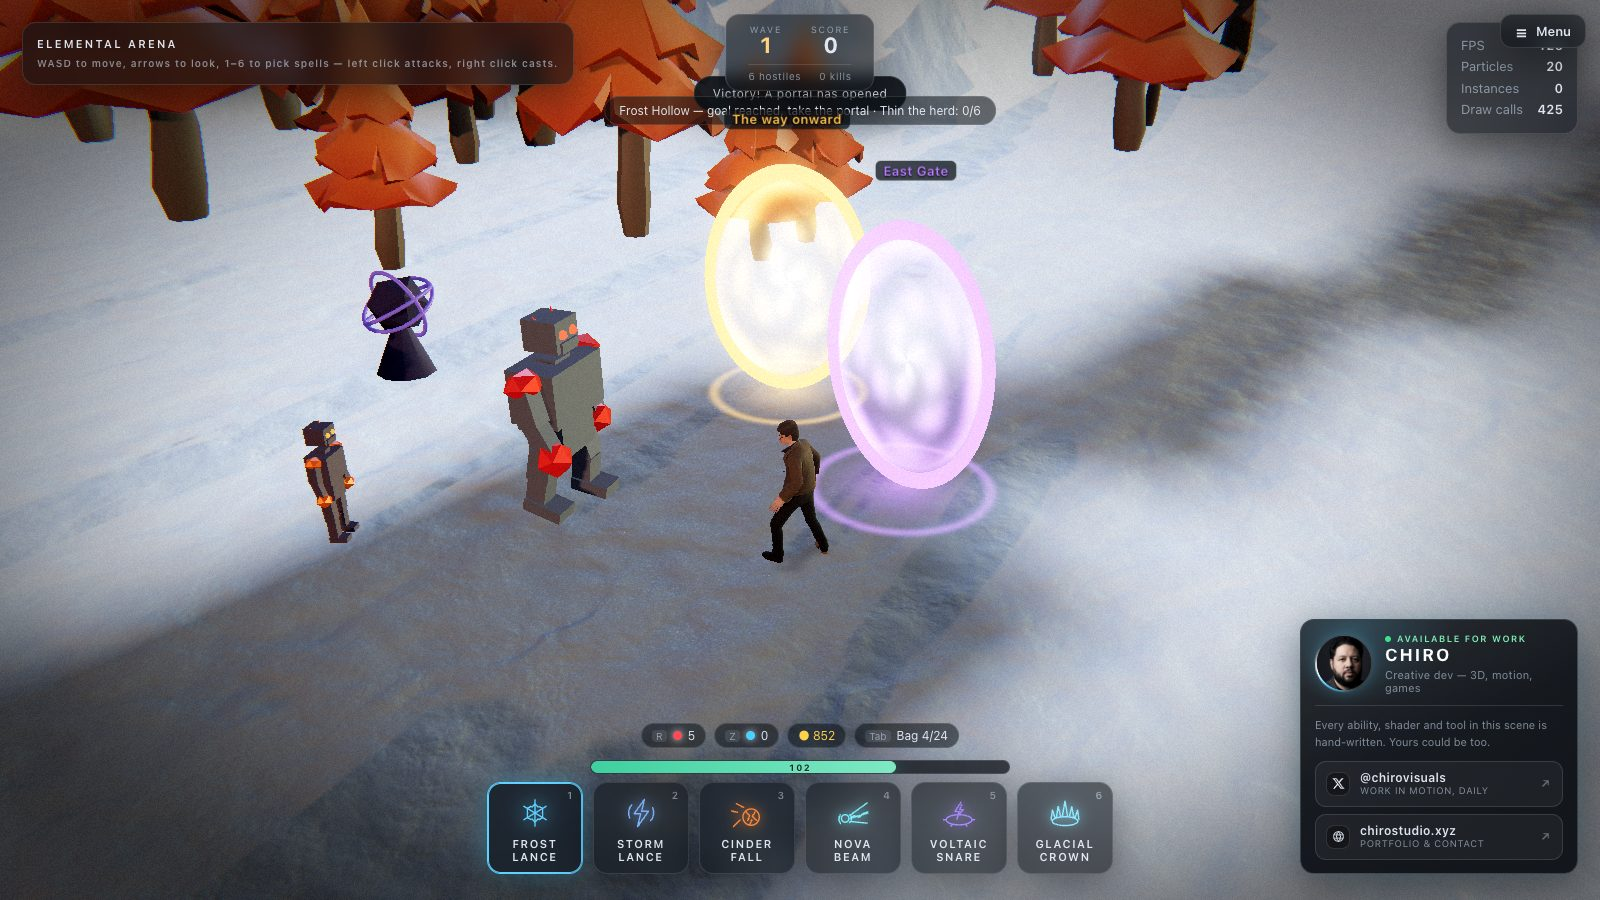
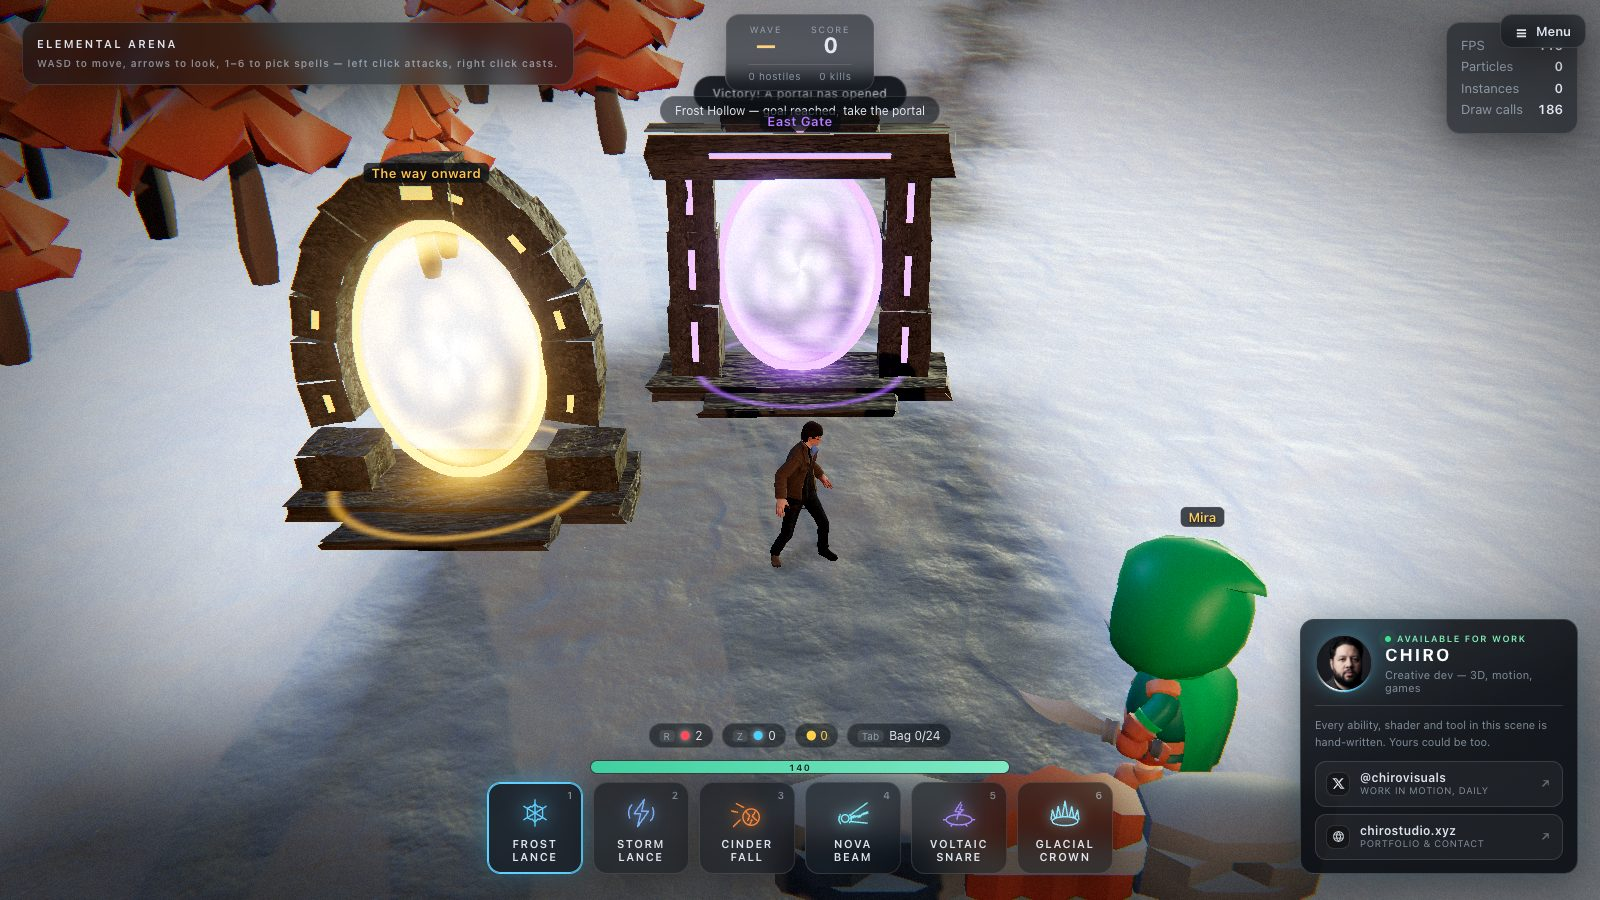
Give portals stone frames: an arch or a gateway
- Stone arch (rough-hewn blocks, keystone, foot stones, dais) and stone
  gateway (three-drum pillars, lintel, capstone) built once and shared,
  in the keep's masonry texture, with runes glowing in the portal colour;
  the old glowing ring stays as a third choice.
- Frame is a per-portal setting in the editor and the level file.
- The exit portal opens in view and away from gates and NPCs.

diff --git a/src/world/Portals.js b/src/world/Portals.js
@@ -1,5 +1,6 @@
 import {
   AdditiveBlending,
+  BoxGeometry,
   CircleGeometry,
   Color,
   DoubleSide,
@@ -7,9 +8,14 @@ import {
   Mesh,
   MeshBasicMaterial,
   PlaneGeometry,
+  MeshStandardMaterial,
+  RepeatWrapping,
+  SRGBColorSpace,
   ShaderMaterial,
+  TextureLoader,
   TorusGeometry
 } from 'three';
+import { mergeGeometries } from 'three/addons/utils/BufferGeometryUtils.js';
 
 /**
  * Portals: upright, swirling gateways the player walks into.
@@ -73,9 +79,163 @@ const POOL = /* glsl */ `
 
 const geometries = {
   vortex: new PlaneGeometry(2.2, 3.1),
-  rim: new TorusGeometry(1, 0.07, 10, 72),
+  rim: new TorusGeometry(1, 0.05, 8, 72),
+  gate: new PlaneGeometry(2.45, 3.25),
   pool: new CircleGeometry(1.9, 48)
 };
+
+/* ---------------------------------------------------------------------- */
+/* The stone frame: an arch of rough-hewn blocks on a dais                 */
+/* ---------------------------------------------------------------------- */
+
+function seeded(seed) {
+  let a = seed >>> 0;
+  return () => {
+    a = (a + 0x6d2b79f5) >>> 0;
+    let t = Math.imul(a ^ (a >>> 15), a | 1);
+    t ^= t + Math.imul(t ^ (t >>> 7), t | 61);
+    return ((t ^ (t >>> 14)) >>> 0) / 4294967296;
+  };
+}
+
+/** A box with its corners knocked about, so each block reads as cut stone. */
+function roughBlock(w, h, d, rng) {
+  const g = new BoxGeometry(w, h, d, 2, 2, 2);
+  const p = g.getAttribute('position');
+  for (let i = 0; i < p.count; i++) {
+    const k = 0.06;
+    p.setXYZ(i, p.getX(i) * (1 + (rng() - 0.5) * k * 2), p.getY(i) * (1 + (rng() - 0.5) * k * 2), p.getZ(i) * (1 + (rng() - 0.5) * k * 2));
+  }
+  return g.toNonIndexed();
+}
+
+export const PORTAL_FRAMES = { arch: 'Stone arch', gateway: 'Stone gateway', ring: 'Glowing ring' };
+
+const frames = new Map();
+/** Built once per style and shared by every portal: stone blocks + rune inlays. */
+function portalFrame(style) {
+  if (!frames.has(style)) frames.set(style, style === 'gateway' ? buildGateway() : style === 'ring' ? null : buildArch());
+  return frames.get(style);
+}
+
+/** A dais with a step in front — both frames stand on one. */
+function dais(rng, stones, width = 4.1) {
+  const slab = roughBlock(width, 0.22, 1.6, rng);
+  slab.translate(0, 0.11, 0);
+  const step = roughBlock(width * 0.63, 0.12, 0.7, rng);
+  step.translate(0, 0.06, 1.12);
+  stones.push(slab, step);
+}
+
+function finish(stones, runes) {
+  const built = { stone: mergeGeometries(stones), runes: mergeGeometries(runes) };
+  built.stone.computeVertexNormals();
+  return built;
+}
+
+/** Two standing-stone pillars and a heavy lintel: a gate rather than a ring. */
+function buildGateway() {
+  const rng = seeded(9127);
+  const stones = [];
+  const runes = [];
+  for (const side of [-1, 1]) {
+    // Three stacked drums per pillar, each a little offset, narrowing upward.
+    let y = 0.22;
+    for (let i = 0; i < 3; i++) {
+      const h = 1.05 + rng() * 0.12;
+      const w = 0.78 - i * 0.06;
+      const block = roughBlock(w, h, w * 0.95, rng);
+      block.rotateY((rng() - 0.5) * 0.1);
+      block.translate(side * 1.62 + (rng() - 0.5) * 0.04, y + h / 2, (rng() - 0.5) * 0.04);
+      stones.push(block);
+      // A rune down the inner face of every drum, both sides of the gate.
+      for (const face of [1, -1]) {
+        const rune = new BoxGeometry(0.1, h * 0.55, 0.02);
+        rune.translate(side * 1.62, y + h / 2, face * (w * 0.48 + 0.01));
+        runes.push(rune.toNonIndexed());
+      }
+      y += h;
+    }
+  }
+  // The lintel overhangs both pillars; a capstone sits on top.
+  const lintel = roughBlock(4.3, 0.62, 0.95, rng);
+  lintel.translate(0, 3.62, 0);
+  const cap = roughBlock(2.2, 0.36, 0.7, rng);
+  cap.translate(0, 4.1, 0);
+  stones.push(lintel, cap);
+  for (const face of [1, -1]) {
+    const band = new BoxGeometry(2.6, 0.08, 0.02);
+    band.translate(0, 3.62, face * 0.49);
+    runes.push(band.toNonIndexed());
+    const mark = new BoxGeometry(0.3, 0.3, 0.02);
+    mark.rotateZ(Math.PI / 4);
+    mark.translate(0, 4.1, face * 0.36);
+    runes.push(mark.toNonIndexed());
+  }
+  dais(rng, stones, 4.6);
+  return finish(stones, runes);
+}
+
+function buildArch() {
+  const rng = seeded(7331);
+  const stones = [];
+  const runes = [];
+  const cy = 1.78; // arch centre height
+  const rx = 1.5;
+  const ry = 2.08;
+  const count = 15;
+  for (let i = 0; i < count; i++) {
+    // Along the arch from one foot (~-12°) over the top to the other (~192°).
+    const t = i / (count - 1);
+    const a = (-12 + t * 204) * (Math.PI / 180);
+    const x = Math.cos(a) * rx;
+    const y = cy + Math.sin(a) * ry;
+    const keystone = i === Math.floor(count / 2);
+    const w = keystone ? 0.62 : 0.5 + rng() * 0.12;
+    const h = keystone ? 0.7 : 0.46 + rng() * 0.1;
+    const block = roughBlock(w, h, keystone ? 0.72 : 0.6 + rng() * 0.08, rng);
+    // Each block follows the curve, with a little sag and wobble.
+    const tangent = Math.atan2(Math.cos(a) * ry, -Math.sin(a) * rx);
+    block.rotateZ(tangent + Math.PI / 2 + (rng() - 0.5) * 0.12);
+    block.rotateY((rng() - 0.5) * 0.12);
+    block.translate(x, Math.max(y, 0.25), (rng() - 0.5) * 0.06);
+    stones.push(block);
+    // Runes on alternate blocks, both faces, set into the stone.
+    if (i % 2 === 0 || keystone) {
+      for (const side of [1, -1]) {
+        const rune = new BoxGeometry(keystone ? 0.14 : 0.08, keystone ? 0.34 : 0.22, 0.02);
+        rune.rotateZ(tangent + Math.PI / 2);
+        rune.translate(x * 0.985, Math.max(y, 0.25), side * (keystone ? 0.37 : 0.315));
+        runes.push(rune.toNonIndexed());
+      }
+    }
+  }
+  // Heavy foot stones each side, and a dais with a step in front.
+  for (const side of [-1, 1]) {
+    const foot = roughBlock(0.86, 0.7, 0.86, rng);
+    foot.translate(side * 1.52, 0.35, 0);
+    stones.push(foot);
+  }
+  dais(rng, stones);
+  return finish(stones, runes);
+}
+
+const stoneMaterial = new MeshStandardMaterial({ color: '#a29d96', roughness: 0.95, metalness: 0, flatShading: true });
+/* The keep's own masonry maps (public/textures/cathedral), so the gates match the ruins. */
+{
+  const loader = new TextureLoader();
+  const load = (file, srgb) =>
+    loader.load(`./textures/cathedral/${file}`, (texture) => {
+      texture.wrapS = texture.wrapT = RepeatWrapping;
+      texture.anisotropy = 4;
+      if (srgb) texture.colorSpace = SRGBColorSpace;
+      stoneMaterial.needsUpdate = true;
+    });
+  stoneMaterial.map = load('color.jpg', true);
+  stoneMaterial.normalMap = load('normal.jpg', false);
+  stoneMaterial.roughnessMap = load('roughness.jpg', false);
+  stoneMaterial.aoMap = null;
+}
 
 export class Portal {
   /** @param {{ id: string, x: number, z: number, yaw?: number, color?: string, label?: string, target?: object }} data */
@@ -92,12 +252,29 @@ export class Portal {
     const shared = { uniforms, vertexShader: VERTEX, transparent: true, depthWrite: false, blending: AdditiveBlending, side: DoubleSide };
     const vortex = new Mesh(geometries.vortex, new ShaderMaterial({ ...shared, fragmentShader: VORTEX }));
     vortex.position.y = 1.75;
+    // A thin glow where the vortex meets the stone.
     const rim = new Mesh(geometries.rim, new MeshBasicMaterial({ color: color.clone().multiplyScalar(2.2), toneMapped: false }));
     rim.scale.set(1.12, 1.58, 1);
     rim.position.y = 1.75;
     const pool = new Mesh(geometries.pool, new ShaderMaterial({ ...shared, fragmentShader: POOL }));
     pool.rotation.x = -Math.PI / 2;
-    pool.position.y = 0.04;
+    const style = PORTAL_FRAMES[data.frame] ? data.frame : 'arch';
+    const built = portalFrame(style);
+    // Rune inlays glow in the portal's colour, brighter as it opens.
+    this.runeMaterial = new MeshBasicMaterial({ color: color.clone().multiplyScalar(2.5), toneMapped: false, transparent: true, opacity: 0 });
+    if (built) {
+      const stones = new Mesh(built.stone, stoneMaterial);
+      stones.castShadow = true;
+      stones.receiveShadow = true;
+      this.group.add(stones, new Mesh(built.runes, this.runeMaterial));
+      pool.position.y = 0.23;
+      vortex.position.y = rim.position.y = 1.85;
+    } else {
+      pool.position.y = 0.04;
+    }
+    // The gateway's opening is a tall rectangle: stretch the vortex to fill it.
+    if (style === 'gateway') vortex.geometry = geometries.gate;
+    this.style = style;
     this.vortex = vortex;
     this.rim = rim;
     this.group.add(pool, vortex, rim);
@@ -116,14 +293,19 @@ export class Portal {
     this.uniforms.uTime.value = time;
     this.uniforms.uOpen.value = ease;
     this.vortex.scale.setScalar(Math.max(0.01, ease));
-    this.rim.scale.set(1.12 * ease, 1.58 * ease, 1);
+    if (this.style === 'gateway') this.rim.scale.set(1.22 * ease, 1.62 * ease, 1);
+    else this.rim.scale.set(1.12 * ease, 1.58 * ease, 1);
     this.rim.rotation.z = Math.sin(time * 0.8) * 0.04;
+    this.runeMaterial.opacity = ease * (0.75 + 0.25 * Math.sin(time * 2.2 + this.data.x));
     this.cooldown = Math.max(0, this.cooldown - dt);
   }
 
   dispose() {
     this.group.removeFromParent();
-    this.group.traverse((node) => node.material?.dispose());
+    // The stone material and the frame geometry are shared; only per-portal materials go.
+    this.group.traverse((node) => {
+      if (node.material && node.material !== stoneMaterial) node.material.dispose();
+    });
   }
 }
 

diff --git a/src/levels/Level.js b/src/levels/Level.js
@@ -12,7 +12,7 @@ import { EDGE_OPTIONS, RELIEF_OPTIONS, SURFACE_OPTIONS, TIME_OPTIONS } from '../
  *   objects: [{ model, category, x, z, yOffset, yaw, scale }],
  *   spawns:  [{ x, z }],                    // where waves walk in from (empty = all around)
  *   monsters: [{ kind, x, z }],             // already standing there when the level starts
- *   portals: [{ id, x, z, yaw, color, label, target: { type: 'none'|'portal'|'level', portal?, level? } }],
+ *   portals: [{ id, x, z, yaw, color, frame: 'arch'|'gateway'|'ring', label, target: { type: 'none'|'portal'|'level', portal?, level? } }],
  *   npcs: [{ id, name, role, model, x, z, yaw, greeting, lines[], ai, persona,
  *            gift: { type, rarity, amount }, quest: null | { title, target, count, gold, rarity } }],
  *   rules: { goal: 'waves'|'boss'|'kills', count, kinds: { grunt: 5, … }, baseCount, growth, bossEvery, dragonEvery },
@@ -103,6 +103,7 @@ export function normalizeLevel(raw = {}) {
         z: num(p?.z),
         yaw: num(p?.yaw),
         color: pick(p?.color, PORTAL_COLOR_NAMES, 'blue'),
+        frame: pick(p?.frame, ['arch', 'gateway', 'ring'], 'arch'),
         label: text(p?.label, 40),
         target: type === 'portal' ? { type, portal: String(target.portal ?? '') } : type === 'level' ? { type, level: String(target.level ?? '') } : { type: 'none' }
       };

diff --git a/src/core/App.js b/src/core/App.js
@@ -915,12 +915,21 @@ export class App {
     // A few metres ahead of the caster as the camera sees it, facing the
     // camera — so it is in view and seen face-on, never edge-on.
     const heading = this.rig.yaw;
-    let x = p.x + Math.sin(heading) * 4.5;
-    let z = p.z + Math.cos(heading) * 4.5;
-    const r = Math.hypot(x, z);
-    if (r > 21) {
-      x *= 21 / r;
-      z *= 21 / r;
+    // Try straight ahead first, then fan out: never on top of a gate or an NPC.
+    const taken = [...this.portals.portals.map((q) => q.position), ...this.npcs.npcs.map((n) => n.position)];
+    let x = p.x;
+    let z = p.z;
+    for (const turn of [0, 0.6, -0.6, 1.2, -1.2, 1.9, -1.9, Math.PI]) {
+      let cx = p.x + Math.sin(heading + turn) * 4.5;
+      let cz = p.z + Math.cos(heading + turn) * 4.5;
+      const r = Math.hypot(cx, cz);
+      if (r > 21) {
+        cx *= 21 / r;
+        cz *= 21 / r;
+      }
+      x = cx;
+      z = cz;
+      if (taken.every((t) => Math.hypot(t.x - cx, t.z - cz) > 4.2)) break;
     }
     this.portals.add(
       { id: '__exit', x, z, yaw: heading + Math.PI, color: 'gold', label: 'The way onward', target: { type: 'exit' } },

diff --git a/src/ui/EditorPanel.js b/src/ui/EditorPanel.js
@@ -2,6 +2,7 @@ import { CATEGORIES } from '../library/categories.js';
 import { platform } from '../platform/index.js';
 import { GIFT_TYPES, GOALS, MONSTER_KINDS, NPC_ROLE_NAMES, PORTAL_COLOR_NAMES, REWARD_RARITIES, describeGoal, slugify } from '../levels/Level.js';
 import { NPC_ROLES, npcModels } from '../npc/Npcs.js';
+import { PORTAL_FRAMES } from '../world/Portals.js';
 import { RELIEF_OPTIONS, SURFACE_OPTIONS, TIME_OPTIONS } from '../world/MapPlan.js';
 
 const TOOLS = [
@@ -252,6 +253,7 @@ export class EditorPanel {
       this._label('Selected portal'),
       text('Name shown above it', m.label, (v) => e.updateMarker({ label: v })),
       this._select('Colour', PORTAL_COLOR_NAMES, m.color, (v) => e.updateMarker({ color: v })),
+      this._select('Frame', Object.keys(PORTAL_FRAMES), m.frame ?? 'arch', (v) => e.updateMarker({ frame: v }), PORTAL_FRAMES),
       this._select('Leads to', options, current, (v) => {
         const [type, id] = v.split(':');
         e.updateMarker({ target: type === 'portal' ? { type, portal: id } : type === 'level' ? { type, level: id } : { type: 'none' } });

diff --git a/src/editor/LevelEditor.js b/src/editor/LevelEditor.js
@@ -472,7 +472,7 @@ export class LevelEditor {
       const yaw = +Math.atan2(-x, -z).toFixed(3);
       const data =
         kind === 'portal'
-          ? { id: `portal-${Date.now().toString(36)}`, x, z, yaw, color: 'blue', label: `Portal ${n}`, target: { type: 'none' } }
+          ? { id: `portal-${Date.now().toString(36)}`, x, z, yaw, color: 'blue', frame: 'arch', label: `Portal ${n}`, target: { type: 'none' } }
           : {
               id: `npc-${Date.now().toString(36)}`,
               name: ['Old Warden', 'Mira', 'Brother Aldo', 'Tamsin', 'Kael'][(n - 1) % 5],

diff --git a/README.md b/README.md
@@ -951,7 +951,14 @@ With the model offline it falls back to its scripted lines.
 
 ### Portals
 
-Place them with the **Portals** tool and choose what each leads to: **another portal in the level**
+<p>
+  <img src="docs/screenshots/portal-arch.jpg" width="49%" alt="A stone-arch portal: rough masonry blocks with blue runes around a swirling vortex" />
+  <img src="docs/screenshots/portal-gateway.jpg" width="49%" alt="A stone-gateway portal: two pillars and a lintel with violet runes" />
+</p>
+
+Each portal stands in a **stone arch** (rough-hewn blocks, a keystone, a dais) or a **stone gateway**
+(two standing-stone pillars and a lintel) — or a plain **glowing ring** — with runes that glow in the
+portal's colour. Place them with the **Portals** tool, pick the frame and colour, and choose what each leads to: **another portal in the level**
 (two linked portals make a two-way shortcut), **another level** (a waypoint into the campaign), or
 nothing. When a level's goal is met, a **gold exit portal** opens in front of you; stepping in shows
 the ending and leads on to the next level.
